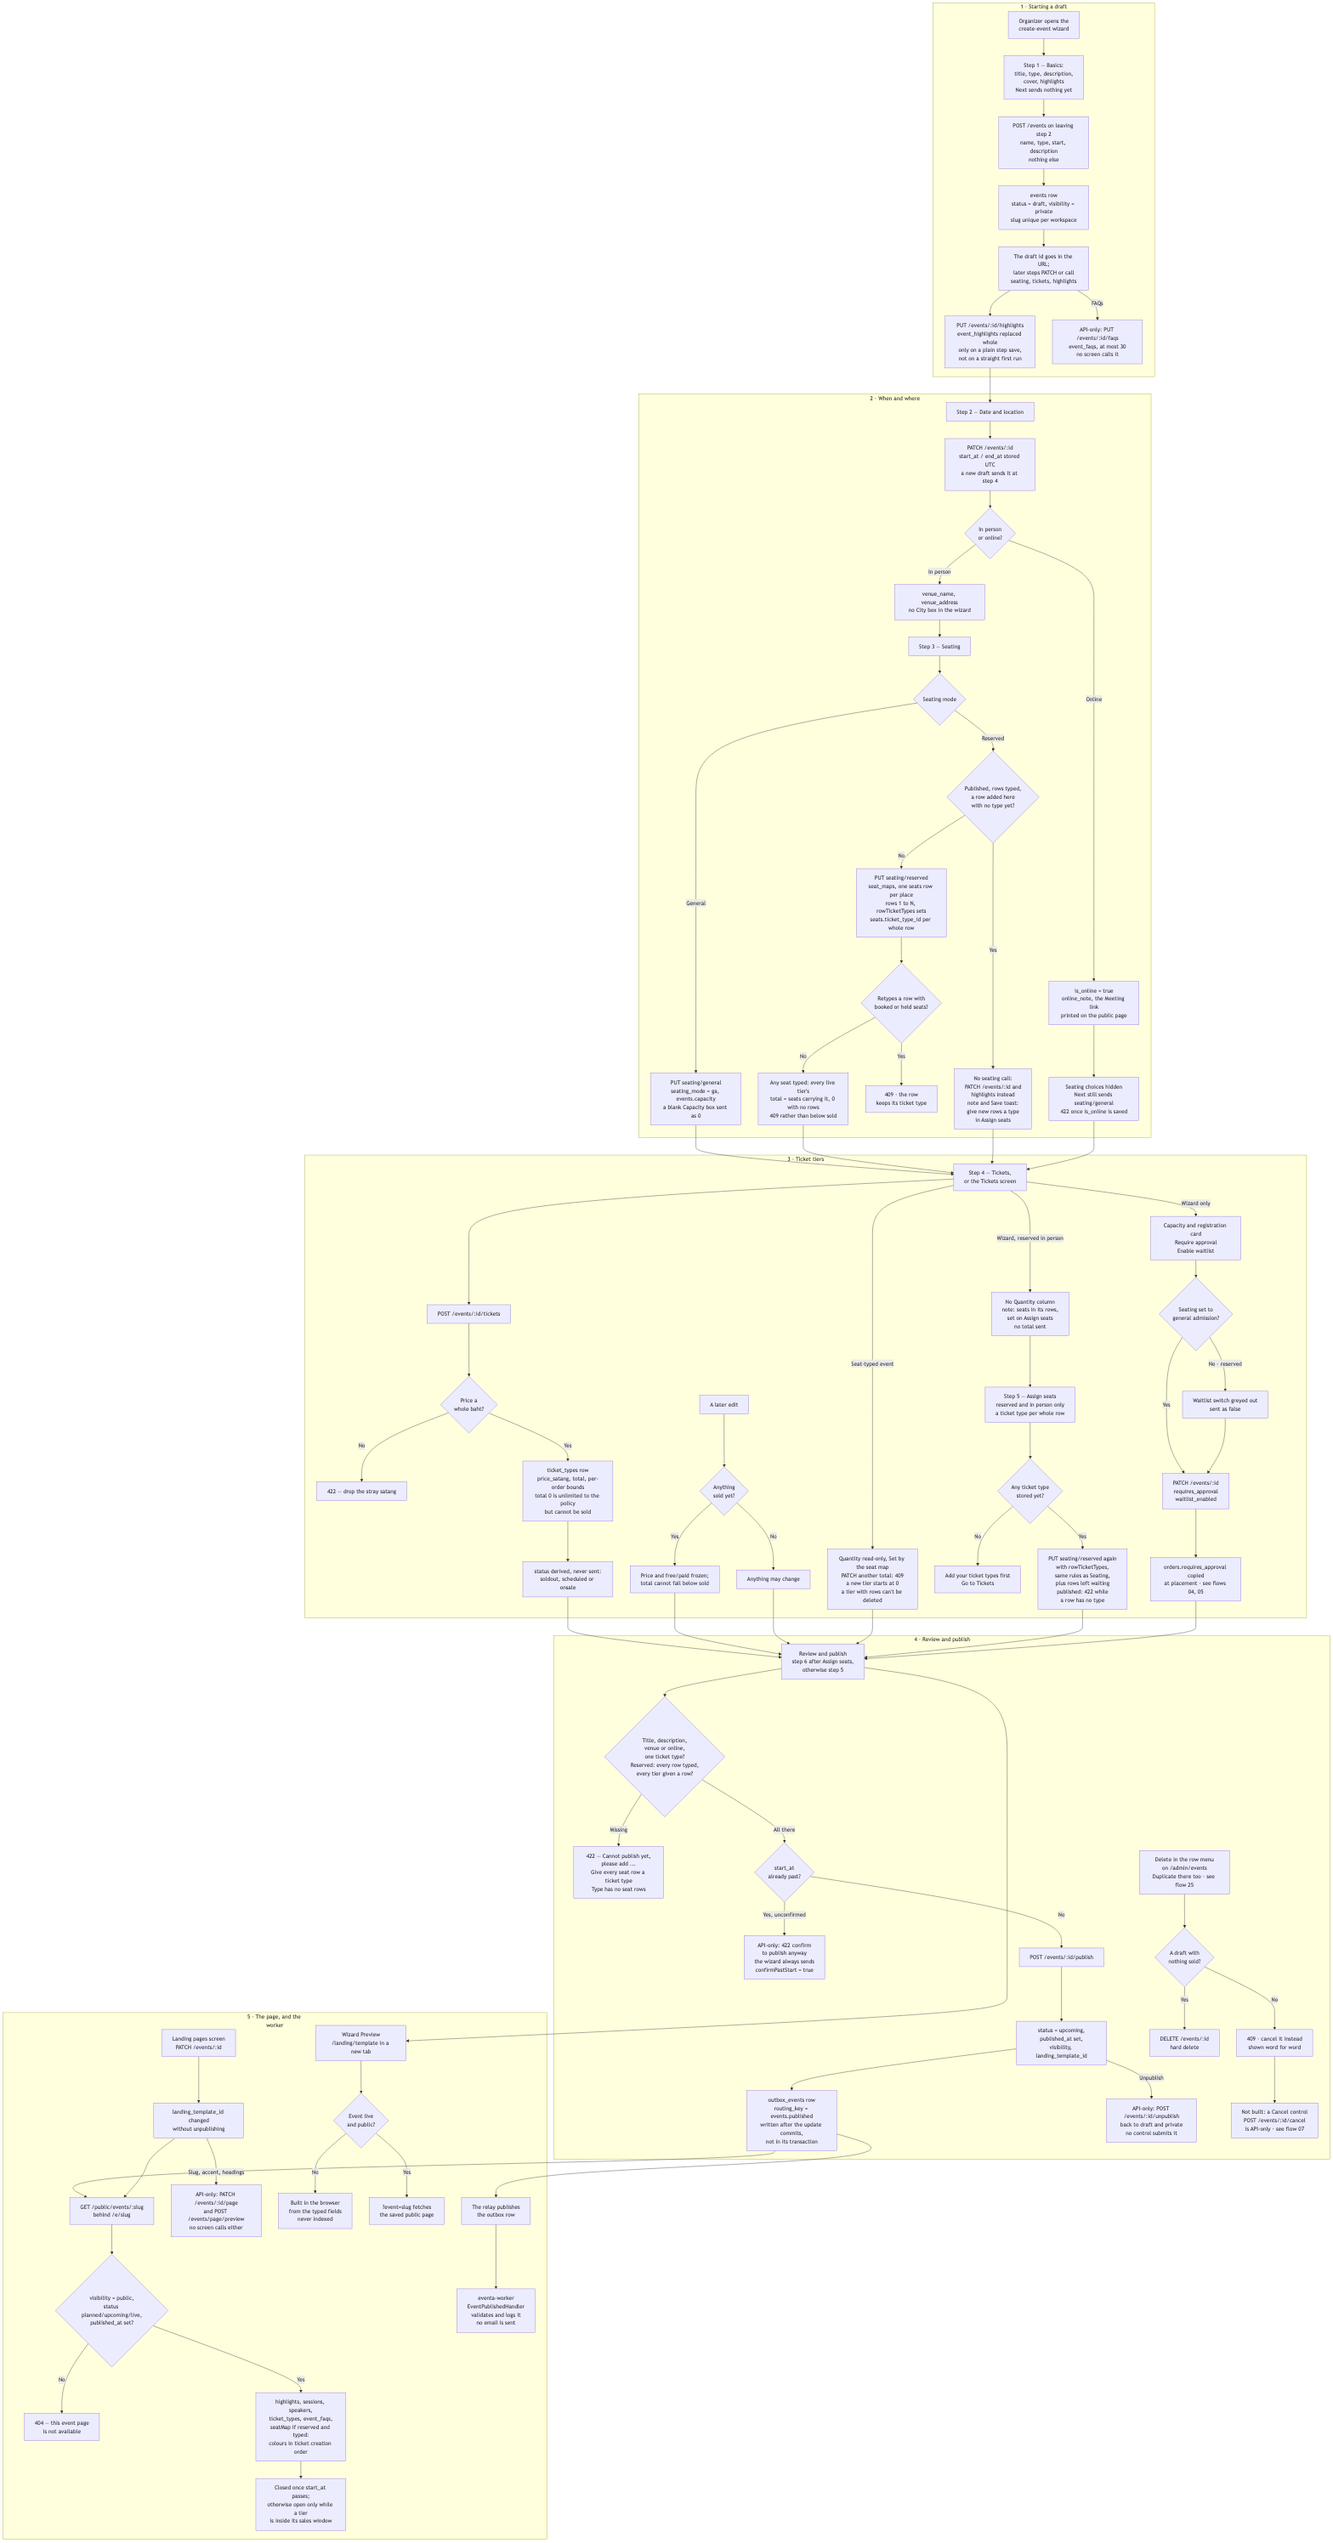
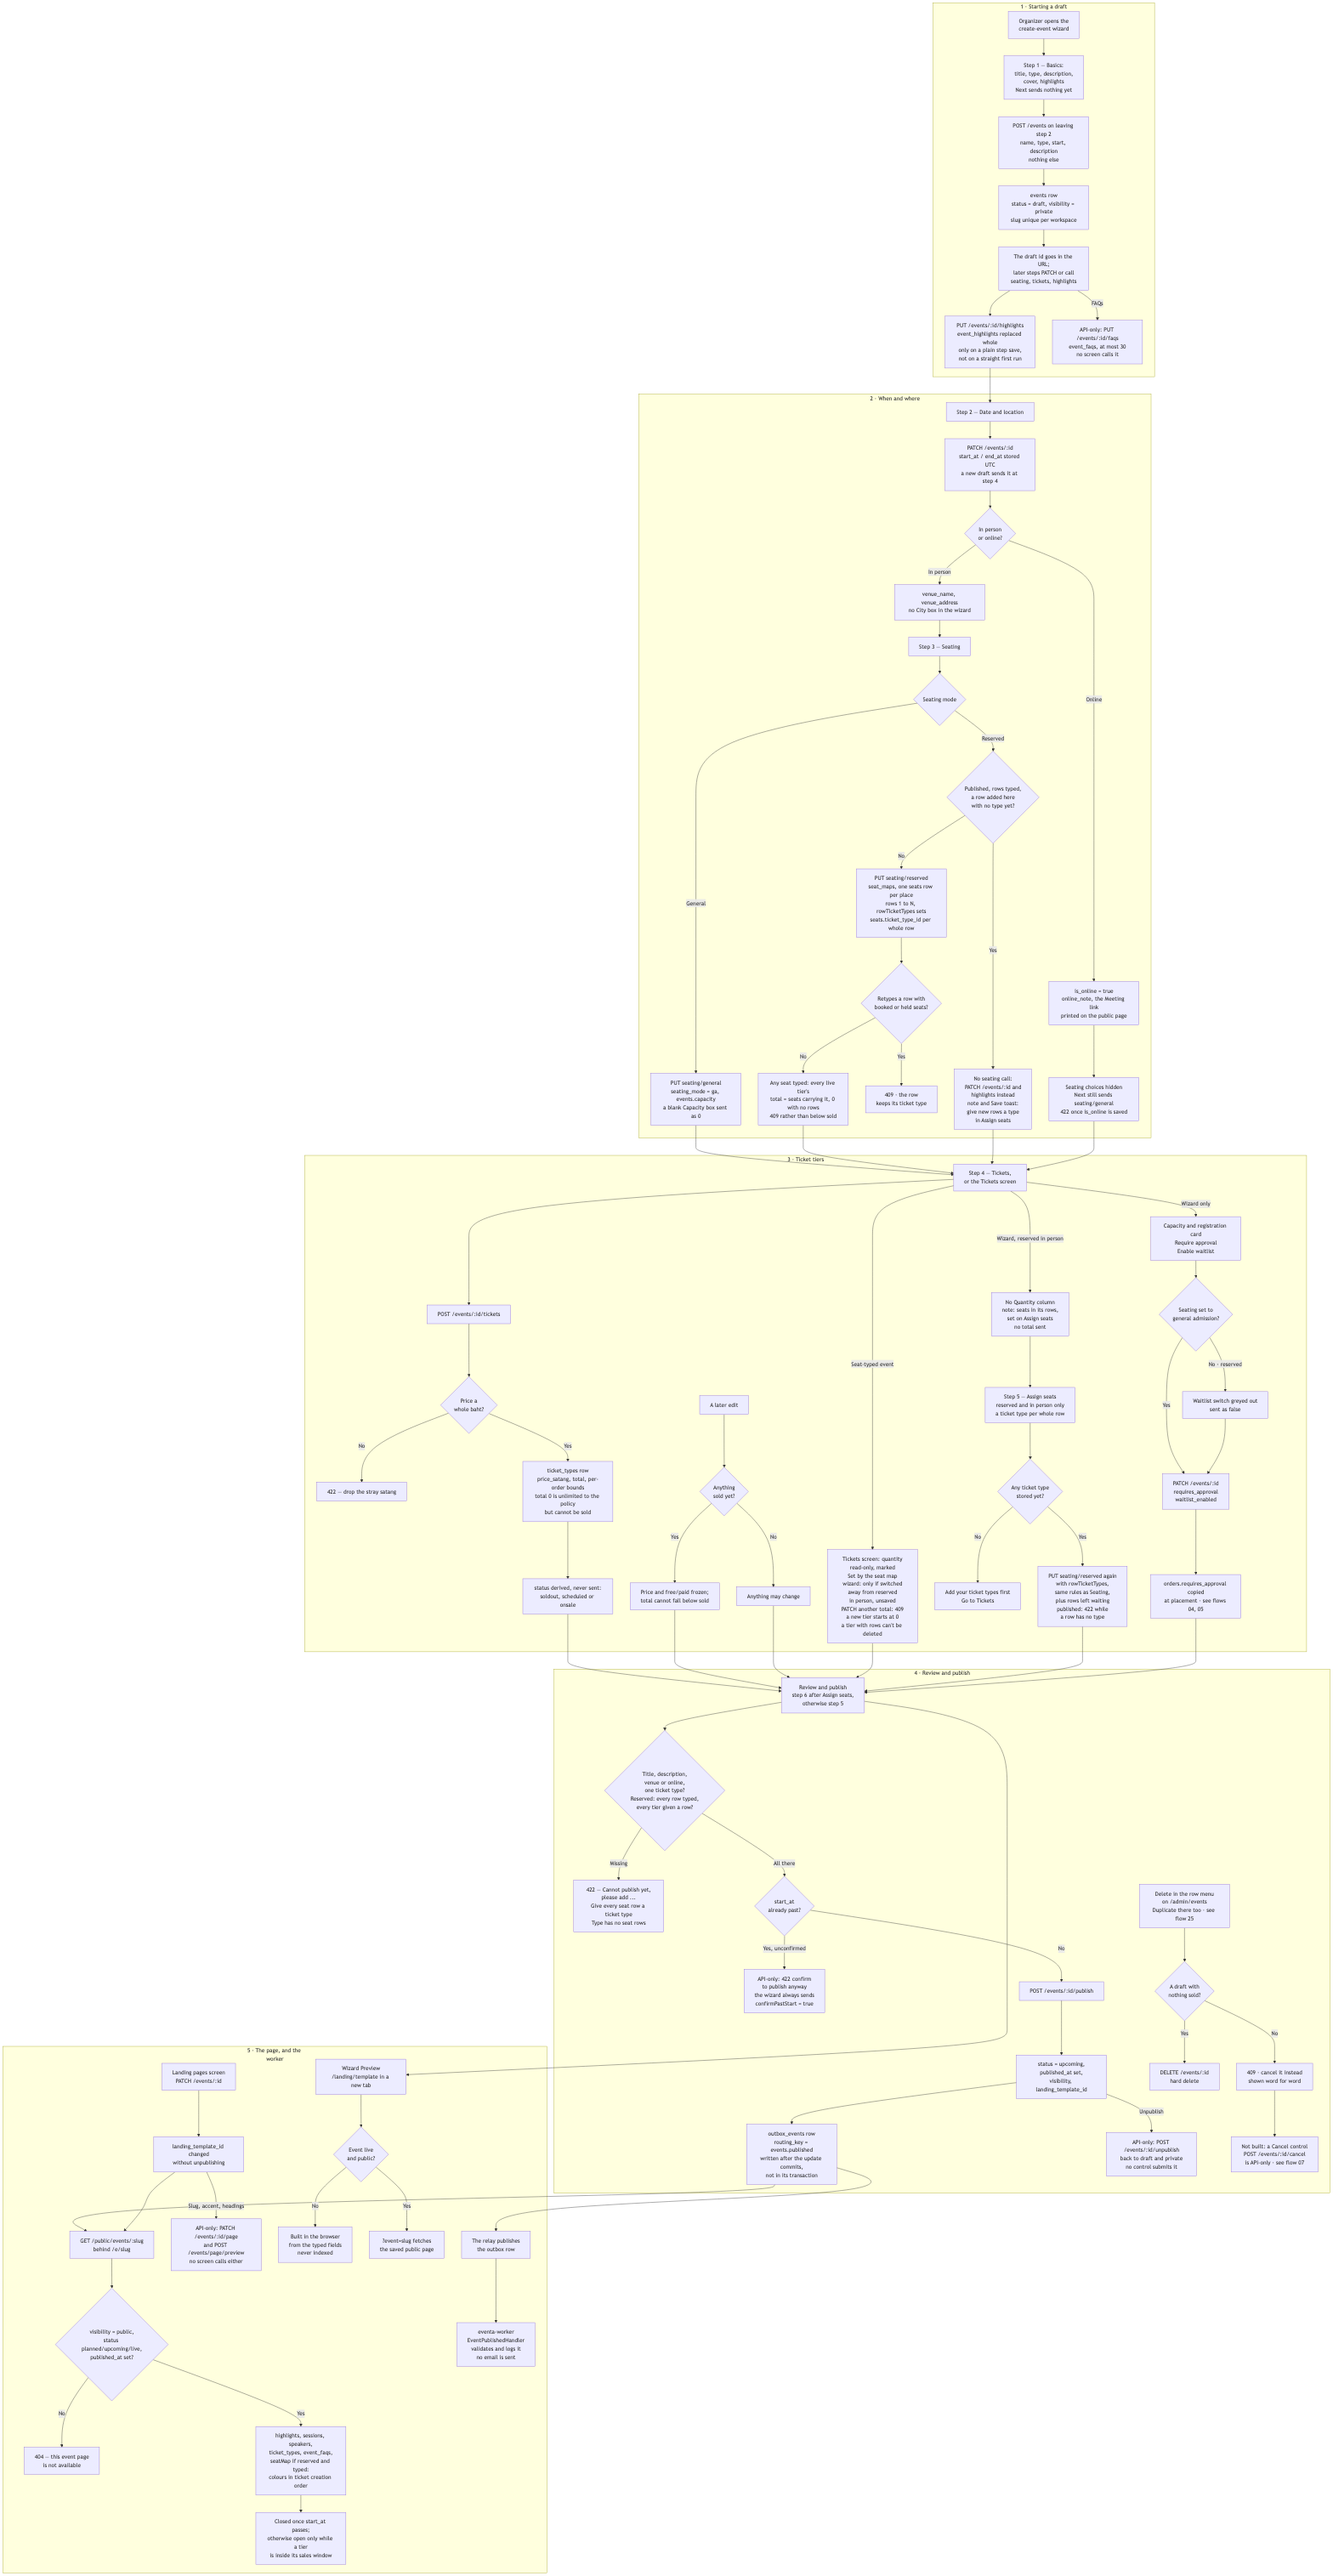
docs(flowcharts): scope flowchart 13's read-only quantity to the Tickets screen (US-EVT-05, US-EVT-06)
Node QS hung off "Step 4 — Tickets, or the Tickets screen" on the edge
"Seat-typed event" and said the quantity is read-only, "Set by the seat
map". Its sibling QW, on "Wizard, reserved in person", now says the
wizard has no Quantity column. A seat-typed event in the wizard matches
both edges, so the diagram said both things at once.

QS now says the read-only "Set by the seat map" quantity is on the
Tickets screen, and that the wizard shows it only when the event was
switched away from reserved in person and not yet saved. Its API rules
stay on the "Seat-typed event" edge, because they hold wherever the
event is edited: another total gets a 409, a new tier starts at 0, and a
tier that has rows can't be deleted. Section 3's prose already said this.

Image 13 was re-rendered with Mermaid 11.4.1. The previous source
reproduces the committed PNG byte for byte, and the new source renders
the same image twice.

diff --git a/04-architecture/flowcharts/13-create-and-publish-an-event.md b/04-architecture/flowcharts/13-create-and-publish-an-event.md
@@ -52,7 +52,7 @@ flowchart TD
     W["A later edit"] --> X{"Anything<br/>sold yet?"}
     X -- "Yes" --> Y["Price and free/paid frozen;<br/>total cannot fall below sold"]
     X -- "No" --> Z["Anything may change"]
-    Q -- "Seat-typed event" --> QS["Quantity read-only, Set by the seat map<br/>PATCH another total: 409<br/>a new tier starts at 0<br/>a tier with rows can't be deleted"]
+    Q -- "Seat-typed event" --> QS["Tickets screen: quantity<br/>read-only, marked<br/>Set by the seat map<br/>wizard: only if switched<br/>away from reserved<br/>in person, unsaved<br/>PATCH another total: 409<br/>a new tier starts at 0<br/>a tier with rows can't be deleted"]
     Q -- "Wizard, reserved in person" --> QW["No Quantity column<br/>note: seats in its rows,<br/>set on Assign seats<br/>no total sent"]
     QW --> AS["Step 5 — Assign seats<br/>reserved and in person only<br/>a ticket type per whole row"]
     AS --> AS1{"Any ticket type<br/>stored yet?"}
